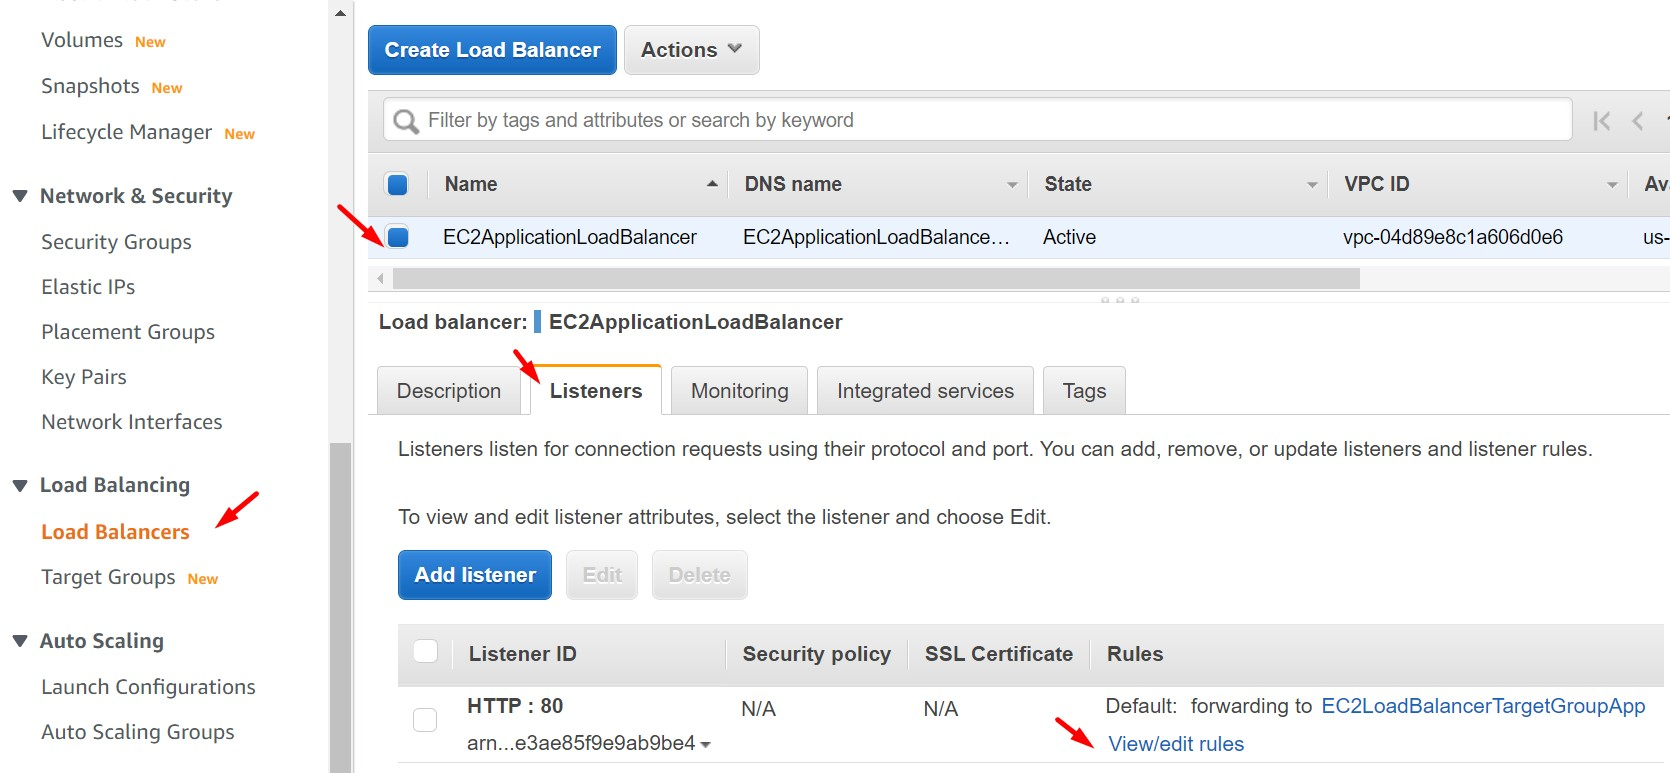
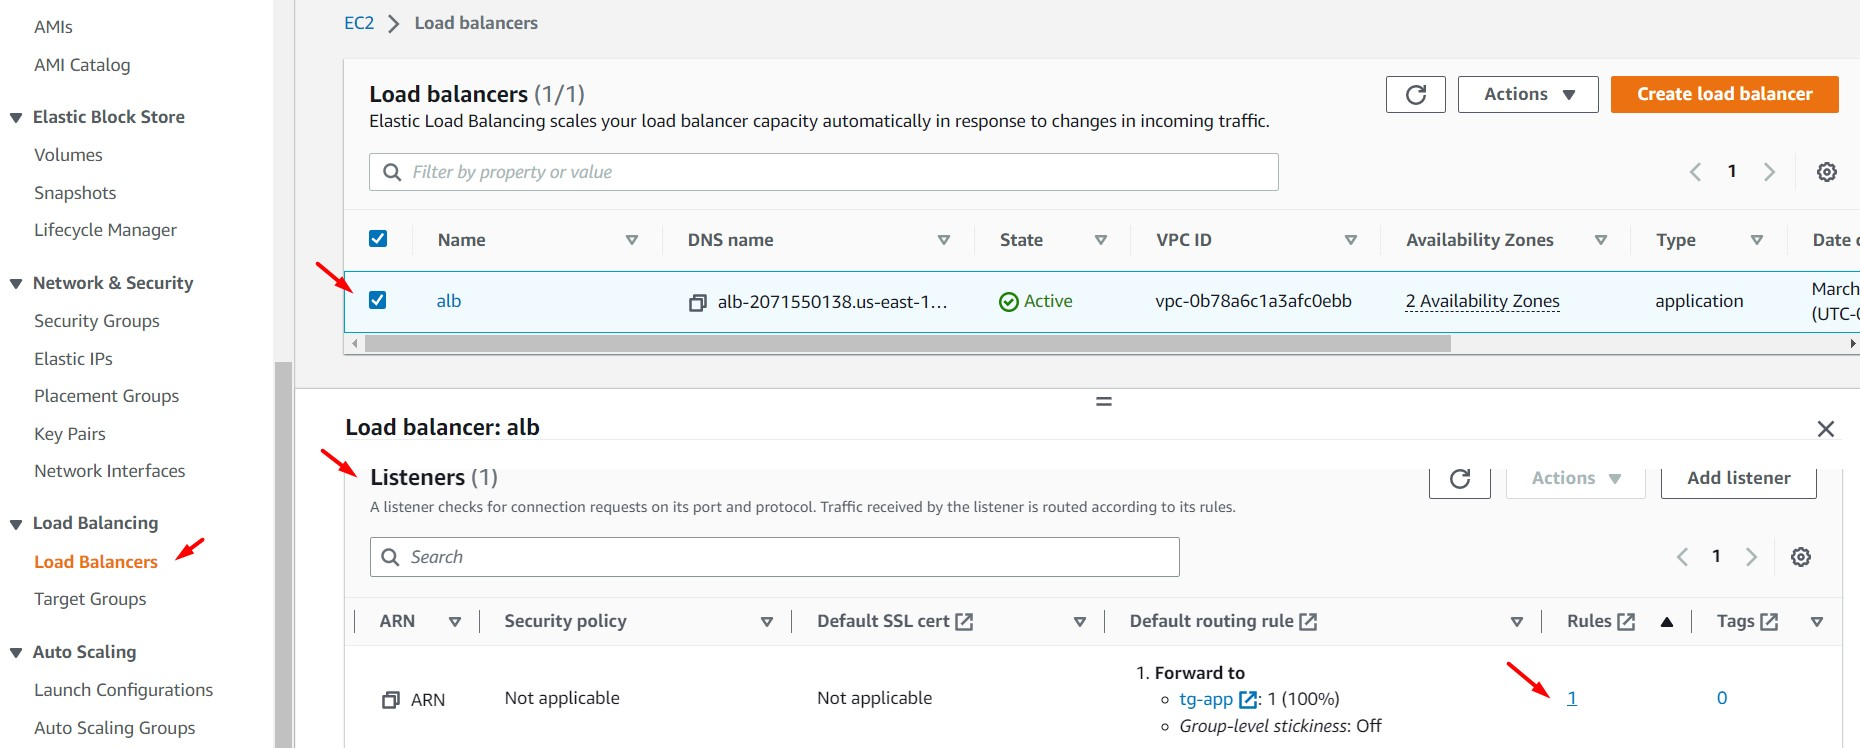
Update Lab-13

diff --git a/Lab-13/README-Lab13.md b/Lab-13/README-Lab13.md
@@ -85,7 +85,7 @@ aws cloudformation create-stack --stack-name lab13-alb-targetgroup --template-bo
 
 <br>
 
-12. Accedemos a la sección "Listener" de nuestro balanceador de aplicaciones. Luego, accedemos al enlace "View/edit rules" para el listener HTTP:80. Damos clic en el icono "+", luego damos clic en el enlace "Insert Rule" e ingresamos los siguientes valores. Luego damos clic en los íconos "Checks" ubicados uno en cada columna. Finalmente damos clic en "Save".
+12. Accedemos a la sección "Listener" de nuestro balanceador de aplicaciones. Luego, en la columna "Rules" accedemos al enlace respectivo. En la siguiente pantalla "HTTP:80 listener" damos clic en el botón "Manage rules". Damos clic en el icono "+", luego damos clic en el enlace "Insert Rule" e ingresamos los siguientes valores detallados a continuación.
 
     * Sección **"IF (all match)"**, seleccionamos "Add condition - Path". Ingresamos el texto "ruta1"
     * Sección **"THEN"**, seleccionamos "Add action - Redirect to". Ingresamos los siguientes valores:
@@ -93,10 +93,15 @@ aws cloudformation create-stack --stack-name lab13-alb-targetgroup --template-bo
         * Custom host, path, query
         * Path: /instanceid.php
 
+Luego damos clic en los íconos "Checks" ubicados uno en cada columna. Finalmente damos clic en "Save".
 
 <br>
 
 <img src="images/Lab13_05.jpg">
+
+<br>
+
+<img src="images/Lab13_08.jpg">
 
 <br>
 
